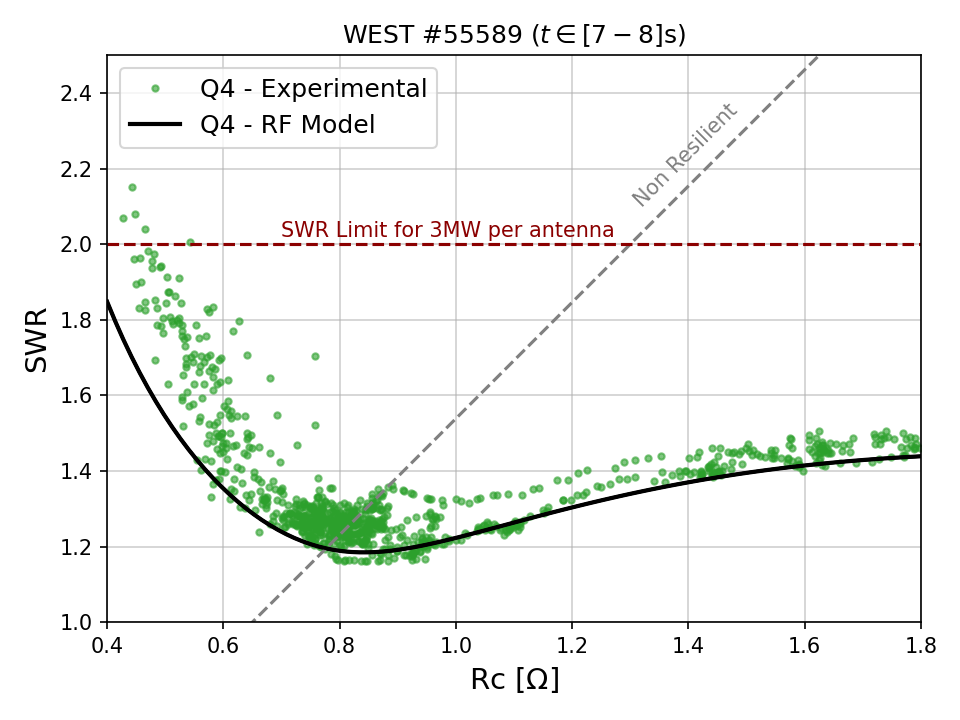
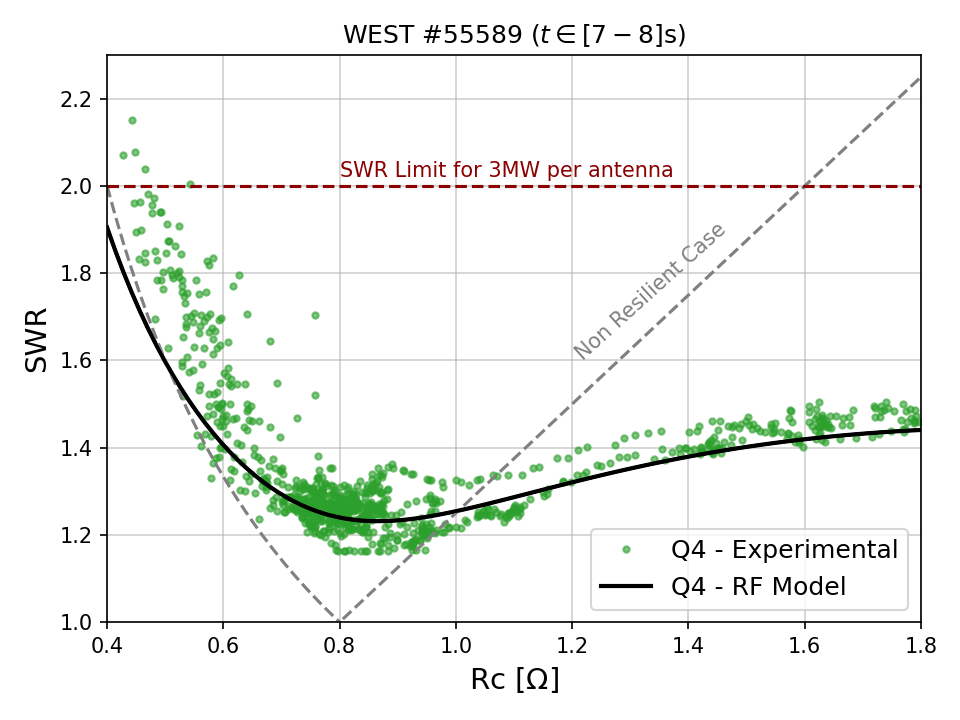
revised version after referee's comments

diff --git a/master.tex b/master.tex
@@ -146,7 +146,7 @@ The three WEST ICRH antennas have been designed to satisfy the ICRH power requir
 
 Each antenna is made of four short straps (2 toroidal $\times$ 2 poloidal) located in separated boxes behind a Faraday Screen (figure~\ref{fig:antenna}). The tilt angle of the Faraday Screen bars is close to the direction of the total magnetic field lines facing the antennas (\SI{7}{\degree}). Each toroidal side of an antenna is fed by a separate high power source. The phase between the left and right sides of each antenna is defined by the plasma control system, the default being dipole configuration. An FPGA-based PID controller modulates the right side generator source frequency (the left side being the reference) to maintain the requested phase with a response time of approximately \SI{50}{\micro\second}. Moreover, the frequencies at which antennas are operated are slightly shifted from the scenario request (around $\pm \SI{0.3}{\mega\hertz}$) to reduce cross-talk between antennas. All antennas are movable radially for optimizing the power coupling and thermal loads handling.
 
-To cope with the fast changes of the electron density facing the antenna during ELMs, the antennas rely on internals conjugate-T \cite{bosia2003-1}: poloidal pairs of straps are connected to an adjustable series capacitor and fed from a common T-junction. Matching is achieving by tuning these capacitors such that the two parallel branches have complex conjugate admittances. If the impedance seen at the T-junction is in the range of 3 to \SI{6}{\ohm}, this feeding circuit allows maintaining the Standing Wave Ratio (SWR) below reasonable values for the generator (below $2{:}1$ for \SI{3}{\mega\watt} per antenna on WEST) within a large increase in antenna resistive loadings, such as the ones expected during ELMs. This load-tolerant electrical circuit has been successfully tested in few seconds pulses in Tore Supra \cite{vulliez2008} and JET \cite{durodie2012-1}. This choice was also motivated by the fact that no \SI{3}{\decibel} Continuous Wave (CW) couplers were available (and still) on the market and required important R\&D. The low impedance at the conjugate-T junction is then transformed to the feeding \SI{30}{\ohm} transmission lines by a fixed two-stage quarter-wave transformer.
+To cope with the fast changes of the electron density facing the antenna during ELMs, the antennas rely on internals conjugate-T \cite{bosia2003-1}: poloidal pairs of straps are connected to an adjustable series capacitor and fed from a common T-junction. Matching is achieving by tuning these capacitors such that the two parallel branches have complex conjugate admittances. If the impedance seen at the T-junction is in the range of 3 to \SI{6}{\ohm}, this feeding circuit allows maintaining the Standing Wave Ratio (SWR) below reasonable values for the generator (below $2{:}1$ for \SI{3}{\mega\watt} per antenna on WEST) within a large increase in antenna resistive loadings, such as the ones expected during ELMs. This load-tolerant electrical circuit has been successfully tested in few seconds pulses in Tore Supra \cite{vulliez2008} and JET \cite{durodie2012-2}. This choice was also motivated by the fact that no \SI{3}{\decibel} Continuous Wave (CW) couplers were available (and still) on the market and required important R\&D. The low impedance at the conjugate-T junction is then transformed to the feeding \SI{30}{\ohm} transmission lines by a fixed two-stage quarter-wave transformer.
 
 
 \begin{figure}
@@ -192,8 +192,11 @@ The WEST ICRH antenna design phase has been conducted from 2013 to 2014, followe
 \end{figure}
 
 
+
+
+
 \section{RF Modelling}
-The WEST ICRH RF modelling, described in more details in \cite{helou2015-2, hillairet2020-2}, is summarized in this section. The antenna RF model uses a combination of full-wave models of the antenna’s elements and equivalent lumped elements circuit of the tuning capacitors deduced from full-wave simulations (Figure 1). The evaluation of the scattering parameters of the 4-ports front-end facing the plasma computed using bespoke codes such as TOPICA \cite{milanesio2009} or Petra-M \cite{bertelli2020, shiraiwa2021}, or using commercial FEM software such as COMSOL in RAPLICASOL \cite{tierens2020-2}. The complete electrical circuit a WEST ICRH antenna is assembled using the open-source Python package scikit-rf\footnote{\url{http://scikit-rf.org}}  and can be found and used online\footnote{\url{https://github.com/jhillairet/WEST_IC_antenna}}. The overall model allows comparing voltages, currents, powers and phases to measurements as illustrated in Section 4 and can be used in the control room to assist ICRH operators in antenna tuning. Future work will focus on making “digital twins” of each antenna, enabling operators to interpret the antenna measured responses (post-pulse) and to guide operators in optimizing the antennas for the next plasma pulse.
+The WEST ICRH RF modelling, described in more details in \cite{helou2015-2, hillairet2020-2}, is summarized in this section. The antenna RF model uses a combination of full-wave models of the antenna’s elements and equivalent lumped elements circuit of the tuning capacitors deduced from full-wave simulations (Figure \ref{fig:westicrhblockdiagram}). The evaluation of the scattering parameters of the 4-ports front-end facing the plasma computed using bespoke codes such as TOPICA \cite{milanesio2009} or Petra-M \cite{bertelli2020, shiraiwa2021}, or using commercial FEM software such as COMSOL in RAPLICASOL \cite{tierens2020-2}. The complete electrical circuit a WEST ICRH antenna is assembled using the open-source Python package scikit-rf\footnote{\url{http://scikit-rf.org}}  and can be found and used online\footnote{\url{https://github.com/jhillairet/WEST_IC_antenna}}. The overall model allows comparing voltages, currents, powers and phases to measurements as illustrated in Section 4 and can be used in the control room to assist ICRH operators in antenna tuning. Future work will focus on making “digital twins” of each antenna, enabling operators to interpret the antenna measured responses (post-pulse) and to guide operators in optimizing the antennas for the next plasma pulse.
 
 \section{Antennas Commissioning}
 \subsection{Low power RF tests}
@@ -207,7 +210,7 @@ High voltage RF tests are made in TITAN alternatively on both sides of an antenn
 \begin{figure}
 	\centering
 	\includegraphics[width=0.95\linewidth]{figures/titan}
-	\caption{WEST IRH Antenna IC Q4 installed in the TITAN vacuum chamber. The high power RF input (visible at the right side in yellow) is not yet connected to one antenna side.}
+	\caption{WEST ICRH Antenna Q4 installed in the TITAN vacuum chamber. The high power RF input (visible at the right side in yellow) is not yet connected to one antenna side.}
 	\label{fig:titan}
 \end{figure}
 
@@ -246,7 +249,7 @@ The commissioning phase on WEST plasmas was relatively short, only two days for 
 
 
 \subsection{Antenna Load Resilience and Operation}
-The intrinsic load tolerance property of the WEST ICRH antennas, already demonstrated during commissioning and first plasma experiments \cite{helou2020}, has been confirmed in the last experimental campaigns. An example of the load resilience of the WEST antennas is illustrated in figure~\ref{fig:westic55589summarypellet} with WEST pulse \# 55589. During this pulse, 5 deuterium pellets have been injected from the high field, leading to fast density increases, correlated with fast changes in the antenna coupling resistance (from 0.5 to \SI{2}{\ohm}).  Figure~\ref{fig:westicrh55589loadresilienceq4} shows the SWR evolution with coupling resistance during the third pellet injection and is compared to the antenna RF model simulation. The red dashed line illustrates the generator SWR limit to couple \SI{3}{\mega\watt} per antenna (\SI{1.5}{\mega\watt} per generator). The gray dashed line represents for reference the SWR that would have been reached if the antenna was not load-resilient (cf.\cite{helou2020} for additional details). 
+The intrinsic load tolerance property of the WEST ICRH antennas, already demonstrated during commissioning and first plasma experiments \cite{helou2020}, has been confirmed in the last experimental campaigns. An example of the load resilience of the WEST antennas is illustrated in figure~\ref{fig:westic55589summarypellet} with WEST pulse \# 55589. During this pulse, 5 deuterium pellets have been injected from the high field, leading to fast density increases, correlated with fast changes in the antenna coupling resistance (from 0.5 to \SI{2}{\ohm}). Note that the brief SWR increases at \SI{4.6}{\second} and \SI{7.6}{\second} are the consequence of an inward radial shift (around \SI{2}{\centi\meter}) of the perturbed plasma. Figure~\ref{fig:westicrh55589loadresilienceq4} shows the SWR evolution with coupling resistance during the third pellet injection and is compared to the antenna RF model simulation. The red dashed line illustrates the generator SWR limit to couple \SI{3}{\mega\watt} per antenna (\SI{1.5}{\mega\watt} per generator). The gray dashed line represents for reference the SWR that would have been reached if the antenna was not load-resilient (cf.\cite{helou2020} for additional details). 
 
 The operation of the antennas is relatively straightforward, as once the antenna tuning capacitors are properly set up for a given frequency, the antenna load tolerance accepts small capacitance deviations from the ideal match point. Excluding effects on plasma heating efficiency and impurities production, changes in plasma parameters such as minority concentration, fluctuations of the fast wave cut-off layer or minor changes in resonance layer location do therefore not affect the antenna operation significantly. This feature was particularly appreciated during the C4 experimental campaign, as it was still possible to couple RF power to various plasma scenarios despite that few obsolete motor controllers had broken down, prohibiting the movement of some capacitors on two distinct antennas. The motorization system has been fully refurbished for the C5 campaign. 
 
@@ -301,7 +304,18 @@ Because it is based on a RF model linearized close to the match point, the algor
 
 \subsection{Phase Control}
 
-On WEST ICRH antennas, the forward power is generated by two tetrodes\cite{kuus1989}, one for each side of the antenna. The toroidal phase between the left and right sides is achieved by frequency-modulating the right side, the left side being the reference. Initially, the input signal was taken from the toroidal phase between forward powers and the toroidal phase between strap voltages was derived from a linear combination of additional phase measurements. However, this method gave unstable results due to antenna-dependent phase roll-overs occurring in electronic cards. The system has been further improved in the C5 experimental campaign, to measure directly the toroidal phase between (top) strap voltages as the input signal to control. The phase is regulated using an FPGA-based PID whose typical response time to change request is approximatively \SI{50}{\micro\second} and has been found very robust on each antenna to plasma changes. As an example, figure~\ref{fig:westic56469phasecontrol} illustrates the performances of the toroidal phase control for the Q2 antenna on plasma in which the Radial Outer Gap (ROG) is oscillating by $\pm\SI{5}{\milli\meter}$. The phase feedback control has been found very robust to plasma changes. Despite the changes in the coupling resistance, the accuracy of the toroidal phase is in the order of $\pm\SI{2}{\degree}$. The phase error can be increased to $\pm\SI{5}{\degree}$ when multiple antennas are used at the same time or in case of bad absorption, as the phase measurements do not discriminate with frequency and are thus affected by antennas cross-talk and/or multiple passes in the plasma. The role of the antenna toroidal phase in impurity production is discussed in the next section. 
+On WEST ICRH antennas, the forward power is generated by two tetrodes\cite{kuus1989}, one for each side of the antenna. The toroidal phase between the left and right sides is achieved by frequency-modulating the right side, the left side being the reference. 
+
+Without phase control, the toroidal phase can change in an uncontrolled manner due to any plasma variation (e.g. coupling resistance) or interactions with other IC (or LH) antennas. Figure~\ref{fig:westic56468withoutphasecontrol} illustrates a (typical) case, in which despite a relatively constant ROG ($\pm$\SI{3}{\milli\meter}), the toroidal phase of an antenna (here Q2, but the behaviour is the same with other antennas) vary by $\pm$ \SI{15}{\degree} or more during the plasma discharge.
+
+Initially, the input signal was taken from the toroidal phase between forward powers and the toroidal phase between strap voltages was derived from a linear combination of additional phase measurements. However, this method gave unstable results due to antenna-dependent phase roll-overs occurring in electronic cards. The system has been further improved in the C5 experimental campaign, to measure directly the toroidal phase between (top) strap voltages as the input signal to control. The phase is regulated using an FPGA-based PID whose typical response time to change request is approximatively \SI{50}{\micro\second} and has been found very robust on each antenna to plasma changes. As an example, figure~\ref{fig:westic56469phasecontrol} illustrates the performances of the toroidal phase control for the Q2 antenna on plasma in which the Radial Outer Gap (ROG) is oscillating by $\pm\SI{5}{\milli\meter}$. The phase feedback control has been found very robust to plasma changes. Despite the changes in the coupling resistance, the accuracy of the toroidal phase is in the order of $\pm\SI{2}{\degree}$. The phase error can be increased to $\pm\SI{5}{\degree}$ when multiple antennas are used at the same time or in case of bad absorption, as the phase measurements do not discriminate with frequency and are thus affected by antennas cross-talk and/or multiple passes in the plasma. The role of the antenna toroidal phase in impurity production is discussed in the next section. 
+
+\begin{figure}
+	\centering
+	\includegraphics[width=0.95\linewidth]{figures/WEST_IC_56448}
+	\caption{Example of phase evolution of an antenna during a plasma discharge without phase control activated.}
+	\label{fig:westic56468withoutphasecontrol}
+\end{figure}
 
 \begin{figure}
 	\centering
@@ -310,13 +324,16 @@ On WEST ICRH antennas, the forward power is generated by two tetrodes\cite{kuus1
 	\label{fig:westic56469phasecontrol}
 \end{figure}
 
+
+
+
 \subsection{Radiated Power and Impurity Production}
 When the isotopic ratio $n_H/(n_H+n_D)$ is in the expected range for H minority heating scenarios (i.e. from 5 to 10\%) and the toroidal phase properly tuned to dipole, the radiated power measured in 2019 and 2020 scales with the total power (Ohmic + total RF coupled power) and weak specific effect of LH or ICRH RF power has been found. This is illustrated in figure~\ref{fig:westc4c5pradvsptot} for a large set of plasma scenarios, where each point represents a stable 200 ms time window during which the considered quantity has a relative change below 10\%. High-performance plasma experiments conducted on WEST in 2019 have proven that the ICRH system is a key player in achieving edge density pedestal and H-mode transitions \cite{goniche2021,vermare2021}. Several multiple transitions from L to H modes have been obtained and an H-mode phase of up to \SI{4}{\second} has been sustained with the combination of ICRH and LHCD \cite{bucalossi2021}. However, the sustainment of stable H-modes in WEST is presently impeded by the concomitant increase of core radiation level after a transition. It results in oscillatory edge dynamics also impacting ICRH antennas, decreasing the coupling and eventually the coupled power. Additionally, WEST scenarios are also currently hampered by the issue of burning through the tungsten radiation peak at 1.5-\SI{3}{\kilo\electronvolt}, due to a limited level of central electron heating including when applying ICRH \cite{goniche2021}. Future work will concentrate on optimizing the RF heating scheme to ICRH+LHCD plasma scenarios, especially to increase the central temperature as soon as possible in the discharge. A 3MW/CW ECRH system is also under preparation for WEST\cite{bucalossi2021}. This system will be used in particular for the central heating of the plasma during the very early phase of current ramp up.
 
 The specific role of the ICRF waves in modifying the Scrape-Off Layer has been evidenced using visible spectroscopy and infrared measurements \cite{colas2020, urbanczyk2019, urbanczyk2021}. 17 lines of sight are looking at both lateral limiters of the Q2 antenna (8/9 lines on the left/right limiters respectively). The W-I line (\SI{400.8}{\nano\meter}~) brightness is used as a proxy of the W gross erosion. When an antenna is powered, the brightness on its limiters is larger (for a constant total power) than when the antenna is not energized and the amplification factor depends on the antenna voltages. Figure~\ref{fig:westic5522355226} illustrates that a toroidal phase departing from the standard dipole phasing (\SI{180}{\degree}) also led to larger brightness on the antenna side limiters and on the magnetically connected Antenna Protection Limiter (APL) but not elsewhere \cite{urbanczyk2019}. 
-Although dipole phasing is a local minimum, the WI line brightness is larger than in ohmic regime (dashed lines). As the toroidal phase decreases from dipole ($\Delta\phi=\SI{180}{\degree}$) to \SI{80}{\degree}, the brightness on the right limiter increased by a factor 1.5. Although the coupled power decreases by a factor of 2 as the antenna departs from its matching point, applying a factor $\sqrt{P_{\mathrm{ICRF}}}$ (homogeneous to the antenna voltages) to compensate for lower RF power leads to a normalized brightness increases by around 1.8. 
+Although dipole phasing is a local minimum, the W-I line brightness is larger than in ohmic regime (dashed lines). As the toroidal phase decreases from dipole ($\Delta\phi=\SI{180}{\degree}$) to \SI{80}{\degree}, the brightness on the right limiter increased by a factor 1.5. Although the coupled power decreases by a factor of 2 as the antenna departs from its matching point, applying a factor $\sqrt{P_{\mathrm{ICRF}}}$ (homogeneous to the antenna electric fields which are a proxy to RF sheath amplitudes\cite{colas2021}) to compensate for lower RF power leads to a normalized brightness increases by around 1.8. 
 
-However, W-I line brightness is not related in a simple way to the W core contamination because of the large prompt redeposition of W and transport in the divertor and SOL. Future work will consist of a deeper characterization of the impurity sources and the effect on plasma core using a combination of experiments measuring low ionisation stages (W II to VIII) and edge transport simulations. At this stage, the operational domain explored so far does not allow us to differentiate the impact of the heating method on the core radiation level. New low-Z materials antenna lateral limiters are under design for both LHCD and ICRH antennas. It is expected to install them progressively, allowing direct comparisons between antennas equipped with W or low-Z antenna limiters on WEST plasma.
+However, W-I line brightness is not related in a simple way to the W core contamination because of the large prompt redeposition of W and transport in the divertor and SOL. Future work will consist of a deeper characterization of the impurity sources (W, Cu or Ag) and the effect on plasma core using a combination of experiments measuring low ionisation stages (W-II to VIII) and edge transport simulations. At this stage, the operational domain explored so far does not allow us to differentiate the impact of the heating method on the core radiation level. New low-Z materials antenna lateral limiters are under design for both LHCD and ICRH antennas. It is expected to install them progressively, allowing direct comparisons between antennas equipped with W or low-Z antenna limiters on WEST plasma.
 
 \begin{figure}
 	\centering

diff --git a/figures/plot_shot_55589_load-resilience_RFmodel.py b/figures/plot_shot_55589_load-resilience_RFmodel.py
@@ -59,15 +59,21 @@ f_Q4 =  freqs[2]*1e6 # Q4 frequency
 freq = rf.Frequency(f_Q4, f_Q4, npoints=1, unit='Hz')
 ant = WestIcrhAntenna(frequency=freq)
 
-Z_load = 0.65 + 30j
-Rc_match = 0.8
+Z_load = 0.65 + 25j
+Rc_match = 0.8  # Coupling resistance (averaged) during non-perturbated periods
 Z_match = 30 - 6*1j # matching impedance 
 
 ant.load(Rc_match)
 C_match = ant.match_both_sides(f_match=f_Q4, z_match=[Z_match, Z_match])
 
 #%%
-Rcs = np.linspace(0.4, 1.8, 101) + 0.2j
+# Load the antenna with a simplist model, in which each strap is
+# considered as impedance. 
+# The imaginary part of the coupling resistance reproduces
+# the experimental effect of the cross-coupling between antenna sides. 
+# This effect is automatically included when one use more realistic plasma/antenna
+# coupling model. 
+Rcs = np.linspace(0.4, 1.8, 101) + 0.25j
 vswrs = []
 for Rc in tqdm(Rcs):
     ant.load(Rc)
@@ -83,13 +89,14 @@ fig, ax = plt.subplots()
 ax.plot(_Rc_Q4, _VSWR_Q4_l, '.', alpha=0.6, label='Q4 - Experimental', color='C2')
 # ax.plot(_Rc_Q4, _VSWR_Q4_r, '.', alpha=0.6, label='Q4 right')
 ax.plot(Rcs, vswrs[:,0], lw=2, color='k',label=f'Q4 - RF Model')
-ax.plot(Rcs, Rcs/Z_load.real, ls='--', color='gray')
-ax.text(1.3, 2.1, 'Non Resilient', color='gray', rotation=45)
+ax.plot(Rcs, Rcs.real/Rc_match, ls='--', color='gray')
+ax.plot(Rcs, Rc_match/Rcs.real, ls='--', color='gray')
+ax.text(1.2, 1.6, 'Non Resilient Case', color='gray', rotation=42)
 
 ax.axhline(2, ls='--', color='darkred')
 ax.text(0.8, 2.02, 'SWR Limit for 3MW per antenna', color='darkred')
 
-ax.set_ylim(1, 2.5)
+ax.set_ylim(1, 2.3)
 ax.set_xlim(0.35, 2.01)
 ax.grid(True, alpha=0.6)
 ax.set_xlabel('Rc [$\Omega$]', fontsize=14)
